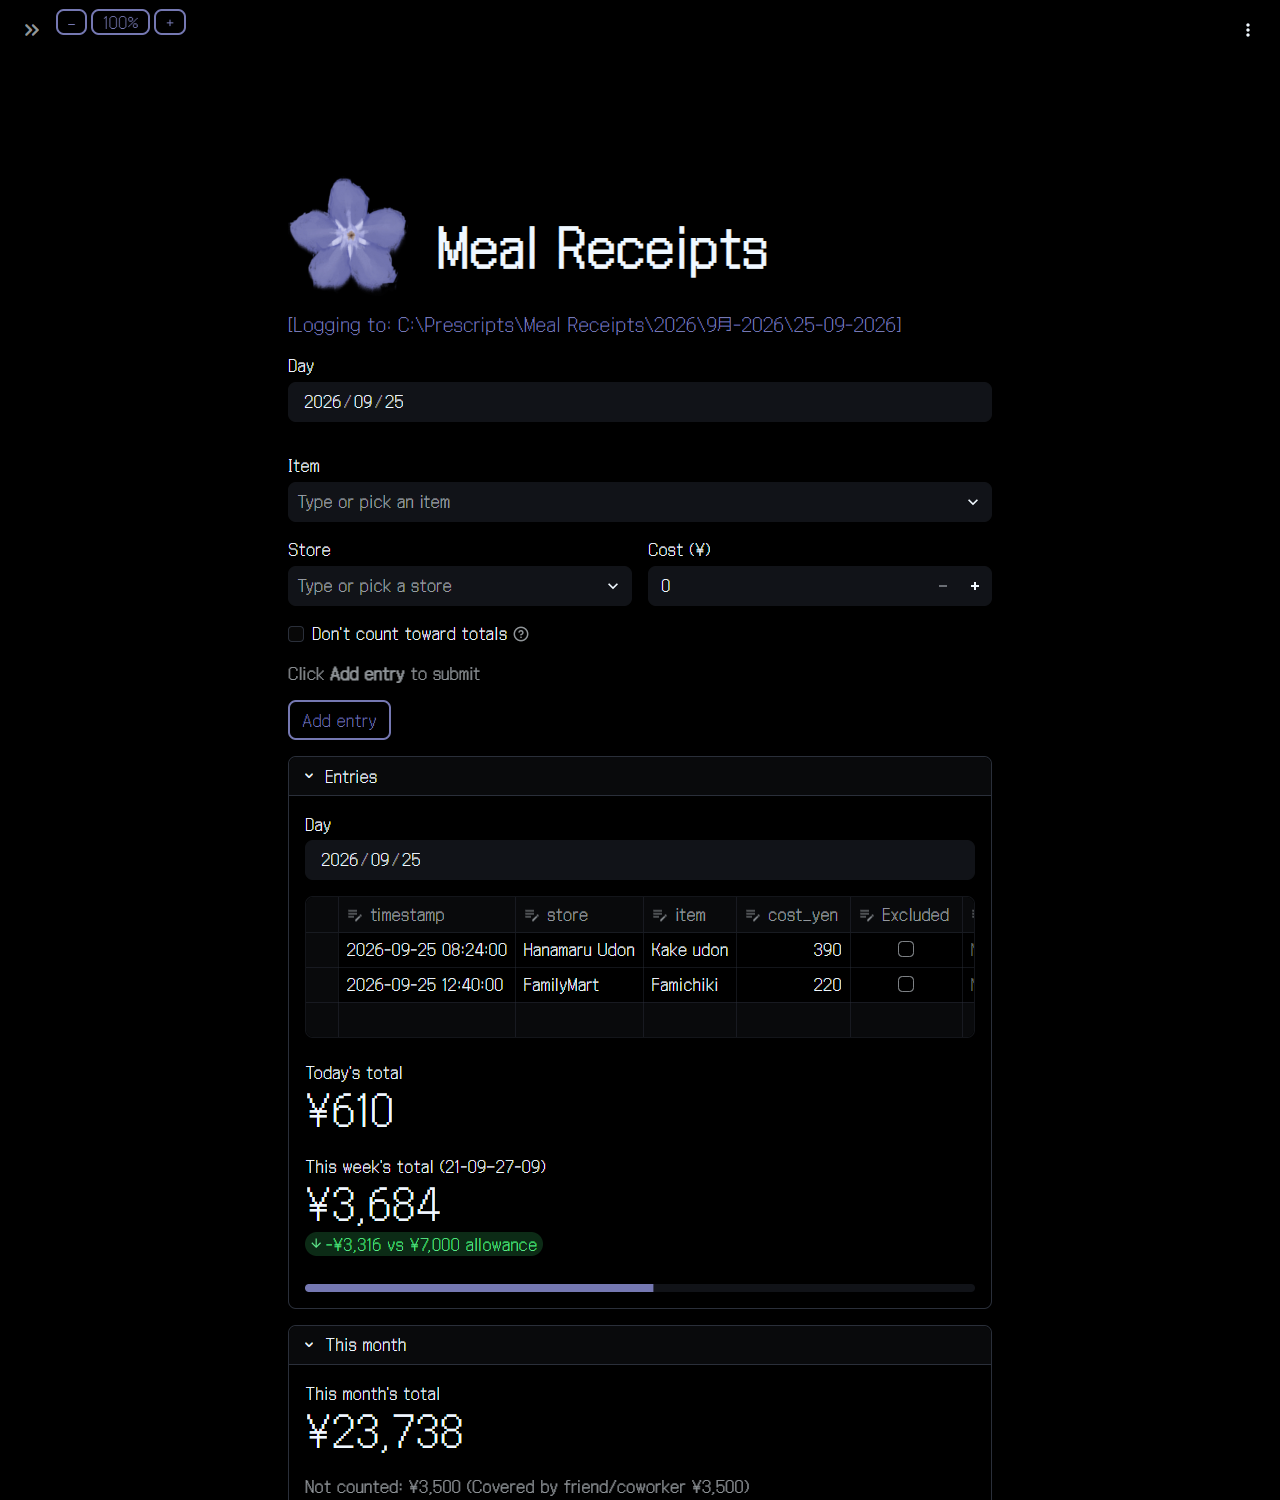
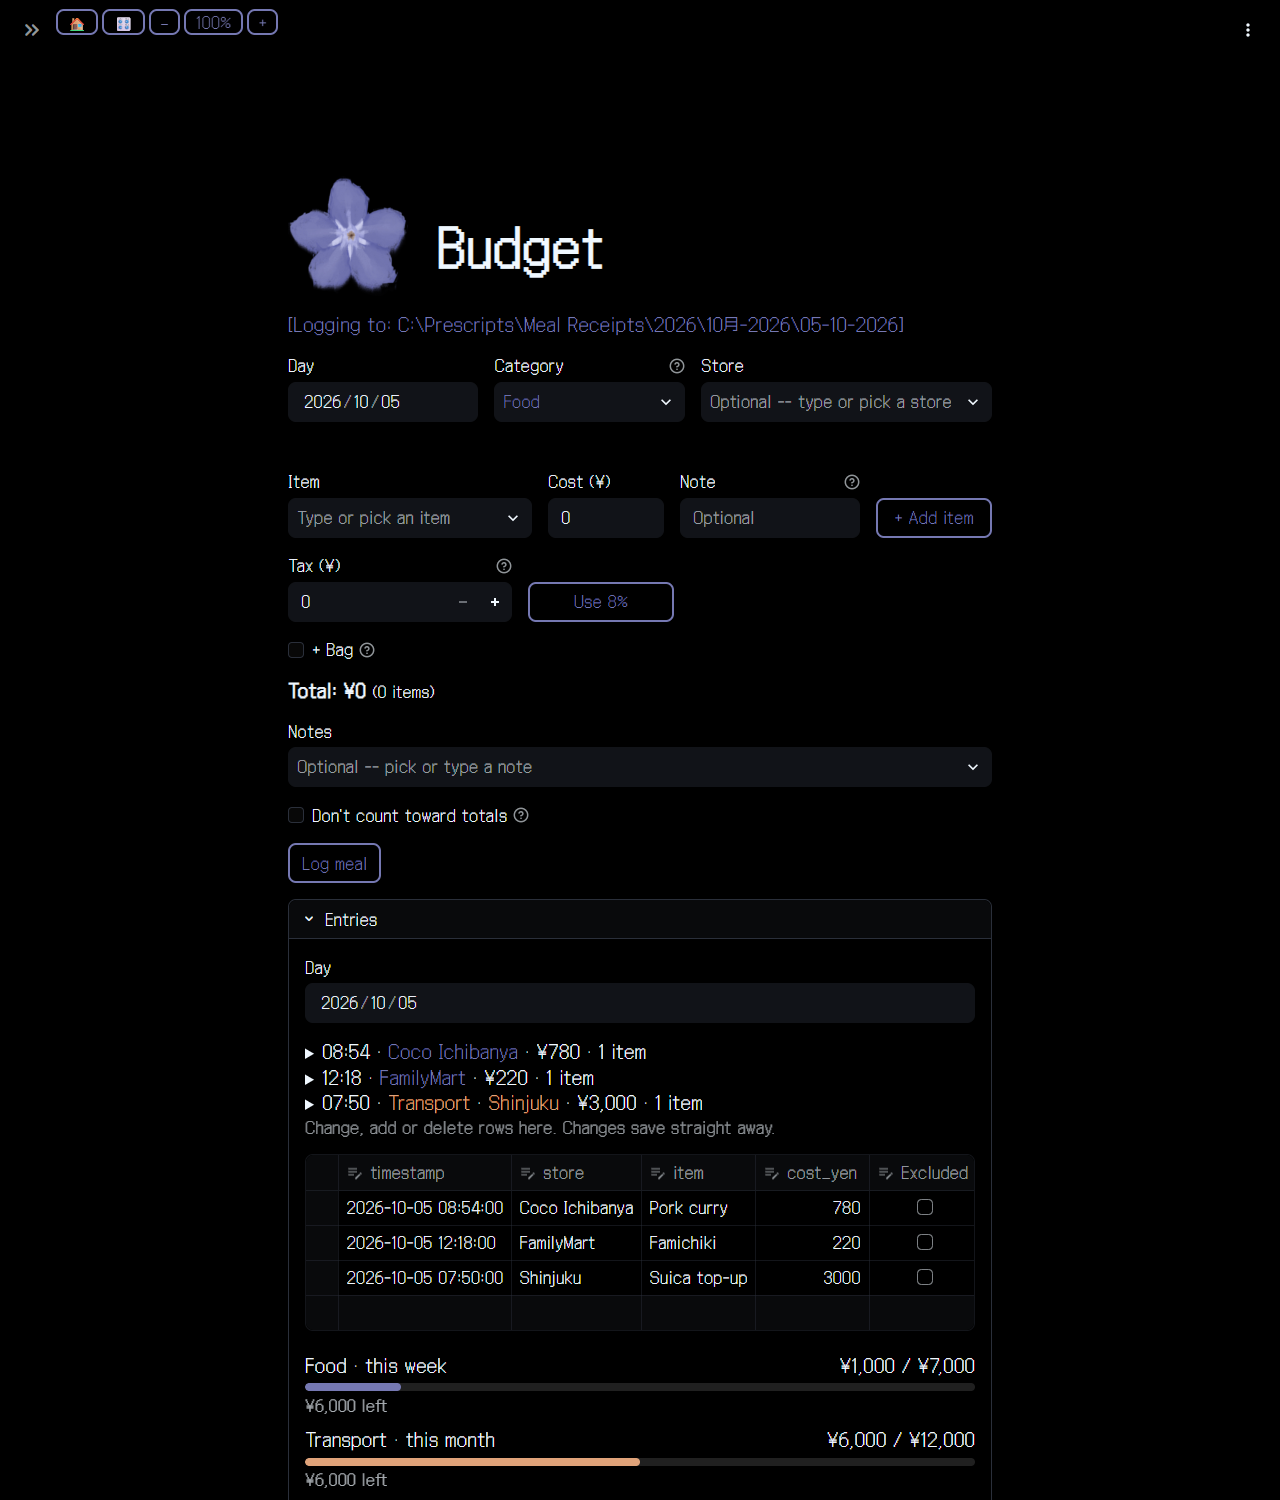
README: retake the screenshots, add Activities
The README's screenshots were from before Budget, Activities and
English only. Retaken with tools/take_screenshots.py on the usual
made-up data, now with a saved area (Asakusa) so the Overview's
Activities tile has something in it, and a new one of the Activities
page. The tool presses "Try again" when OpenStreetMap is busy, and waits
for places rather than event names, which load first.

The Weather page also showed JMA's original Japanese warning under the
English one with English only on; it's now left out there.

diff --git a/tools/take_screenshots.py b/tools/take_screenshots.py
@@ -34,6 +34,9 @@ WIDTH = 1280
 # (file name, page's url path, element that means it's loaded, height to capture)
 SHOTS = [
     ("home", "", "details summary", 800),
+    # Before Overview: its tile uses the places this page looks up.
+    # Not an event's name (.event-name): those show before the places do.
+    ("activities", "activities", ".place-name:not(.event-name)", 1400),
     ("overview", "overview", "[data-testid^=stBaseButton]", 1100),
     ("meal_receipts", "meal_receipts", ".st-key-add_entry_item input", 1500),
     ("japanese", "japanese", "[data-testid^=stBaseButton]", 1060),
@@ -66,6 +69,11 @@ def seed_sample_data(copy: Path) -> None:
 
     # English only starts the Japanese page off; the README still shows it.
     prescripts_common.save_app_settings({"pages": {"japanese": True}})
+
+    # A saved area, so Activities and its Overview tile have places to show.
+    # These come from OpenStreetMap, so they're real.
+    from prescripts.data.activities import save_settings as save_activities_settings
+    save_activities_settings({"area": "Asakusa", "area_ja": "浅草", "lat": 35.7118, "lon": 139.7966, "radius": 1000})
 
     # This month so far: two or three meals a day, one entry left out of totals.
     meals = [
@@ -177,6 +185,15 @@ async def take_shots(app_port: int, cdp_port: int, out_dir: Path) -> list[Path]:
                             "document.querySelector('[data-testid=stApp]').dataset.testScriptState !== 'running'"):
                     break
                 await asyncio.sleep(0.5)
+            # OpenStreetMap's place search is a shared service that's
+            # sometimes busy: the page offers "Try again", so take it.
+            for _ in range(5 if name == "activities" else 0):
+                retry = ("[...document.querySelectorAll('button')]"
+                         ".find(b => b.innerText.trim() === 'Try again')")
+                if not await js(f"!!{retry}"):
+                    break
+                await js(f"{retry}.click()")
+                await asyncio.sleep(10)
             await asyncio.sleep(4)  # page titles type themselves in, then content fades in
             if name == "japanese":
                 await js("[...document.querySelectorAll('button')].find(b => b.innerText.trim() === 'Show answer')?.click()")

diff --git a/prescripts/pages/weather.py b/prescripts/pages/weather.py
@@ -8,7 +8,7 @@ from datetime import datetime
 
 import streamlit as st
 
-from prescripts.common import inject_body_fade_in, render_page_title, show_logo, theme_colors
+from prescripts.common import english_only, inject_body_fade_in, render_page_title, show_logo, theme_colors
 from prescripts.data.weather import (
     CATEGORY_EMOJI,
     DEFAULT_OFFICE_CODE,
@@ -127,8 +127,10 @@ with st.container(key="main_body"):
             except (urllib.error.URLError, TimeoutError):
                 translated = None
             st.warning(translated or headline)
+            # The original under it, unless English only (Settings) is on.
             if translated:
-                st.caption(headline)
+                if not english_only():
+                    st.caption(headline)
             else:
                 st.caption("(English translation unavailable right now -- showing the original)")
         else:

diff --git a/README.md b/README.md
@@ -14,7 +14,7 @@ A personal dashboard app for everyday life in Japan, themed on the Prescripts of
 | **Japanese** | Vocabulary and kanji flashcards with spaced-repetition reviews |
 | **Settings** | English only, and switching pages and Overview tiles on or off (Spotify starts off) |
 
-![The Overview page: a tile each for Meal Receipts, Weather, Japanese and Spotify](docs/screenshots/overview.png)
+![The Overview page: a tile each for Budget, Weather, Activities and Japanese](docs/screenshots/overview.png)
 
 <details>
 <summary><b>More screenshots</b></summary>
@@ -24,6 +24,9 @@ A personal dashboard app for everyday life in Japan, themed on the Prescripts of
 
 **Budget** (called Meal Receipts until October 2026): log a receipt item by item with a running total, and see the day's spending. Each receipt has a category (Food, Transport, Shopping, Other, or one you add), and each category can have its own budget, shown as a coloured bar. Transport receipts take From/To stations instead of a store, with a button to swap them for the trip back. One go can mix categories, so a whole day can be logged at once.
 ![Budget page](docs/screenshots/meal_receipts.png)
+
+**Activities**: places to eat and things to do around a saved area, nearest first, then events coming up. Places come from OpenStreetMap, so many only have a Japanese name.
+![Activities page](docs/screenshots/activities.png)
 
 **Japanese**: flashcard reviews, graded Again / Hard / Good / Easy.
 ![Japanese page](docs/screenshots/japanese.png)
